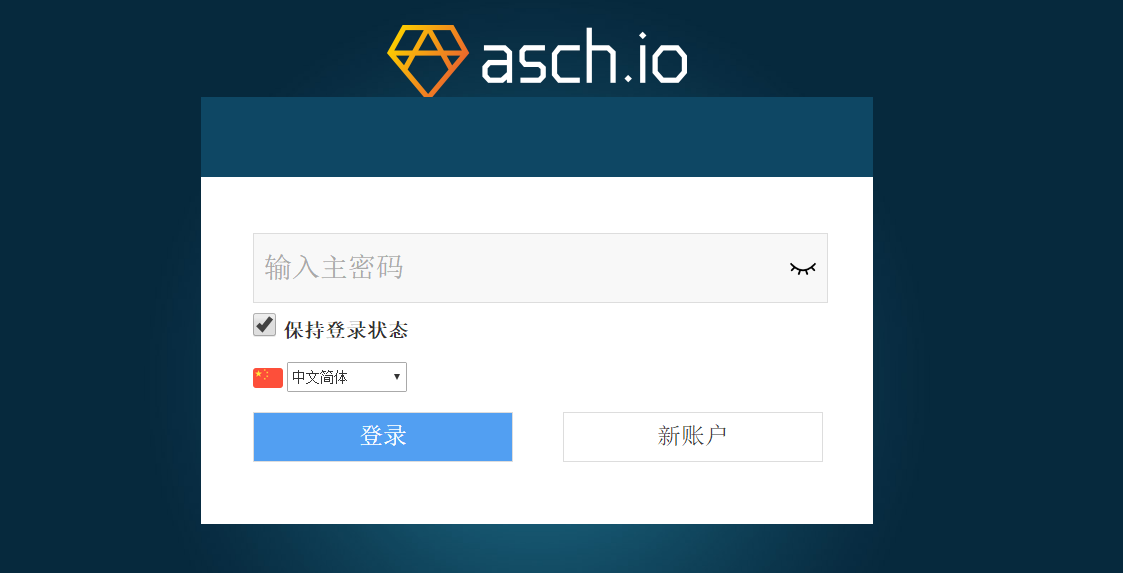
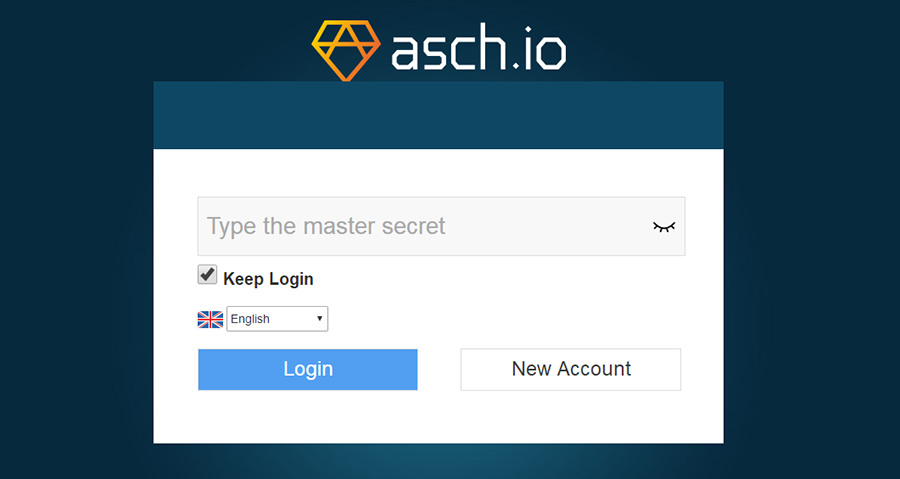
small change

diff --git a/getStarted.html b/getStarted.html
@@ -175,26 +175,26 @@
                 <hr>
                 <p id="getStartedText22">在开始深入了解阿希之前，你需要有一个阿希账号。账号是和阿希主链以及主链上各项服务进行交互的基础。目前阿希有三种钱包，用户可以选择合适的方式进行注册。</p>
                 <p id="getStartedText23">1.地址：https://wallet.asch.io或https://wallet.asch.cn，打开页面，点击“新账户”。</p>
-                <img src="images/web11.png" alt="web wallet img">
+                <img class="web1" src="images/web1.png" alt="web wallet img">
                 <p id="getStartedText24">2.生成的12个英文单词是钱包的主密码。将主密码保存在一个安全的地方，一定不能忘了！然后点击“下一步”。</p>
-                <img src="images/web2.png" alt="web wallet img">
+                <img class="web2" src="images/web2.png" alt="web wallet img">
                 <p id="getStartedText25">3.使用刚刚保存好的主密码登录网页钱包，可以看到余额等基本信息。</p>
-                <img src="images/web3.png" alt="web wallet img">
-                <img src="images/web4.png" alt="web wallet img">
+                <img class="web3" src="images/web3.png" alt="web wallet img">
+                <img class="web4" src="images/web4.png" alt="web wallet img">
             </div>
             <div class="pcWallet">
                 <span id="getStartedText26">PC钱包</span>
                 <hr>
                 <p id="getStartedText27">1.在阿希官网(https://asch.io)下载 PC 钱包，安装到本机。打开应用。</p>
-                <img src="images/pc1.png" alt="web wallet img">
+                <img class="pc1" src="images/pc1.png" alt="web wallet img">
                 <p id="getStartedText28">2.填写完信息后，点击“确定”。使用密码登录钱包界面。</p>
-                <img src="images/pc2.png" alt="web wallet img">
+                <img class="pc2" src="images/pc2.png" alt="web wallet img">
                 <p id="getStartedText29">3.每个钱包最多支持8个账户。</p>
-                <img src="images/pc3.png" alt="web wallet img">
+                <img class="pc3" src="images/pc3.png" alt="web wallet img">
                 <p id="getStartedText30">4.点击头像创建账户。</p>
-                <img src="images/pc4.png" alt="web wallet img">
+                <img class="pc4" src="images/pc4.png" alt="web wallet img">
                 <p id="getStartedText31">5.保存好主密码，就可以开始使用了。</p>
-                <img src="images/pc5.png" alt="web wallet img">
+                <img class="pc5" src="images/pc5.png" alt="web wallet img">
             </div>
             <div class="androidWallet">
                 <span id="getStartedText32">安卓手机钱包</span>
@@ -218,15 +218,15 @@
                 <span id="getStartedText42">网页钱包常用功能</span>
                 <hr>
                 <p id="getStartedText43">1.查询阿希币余额。</p>
-                <img src="images/function1.png" alt="web wallet img">
+                <img class="function1" src="images/function1.png" alt="web wallet img">
                 <p id="getStartedText44">2.点击“资产”页面，查询阿希主链其他资产余额。</p>
-                <img src="images/function2.png" alt="web wallet img">
+                <img class="function2" src="images/function2.png" alt="web wallet img">
                 <p id="getStartedText45">3.查看钱包地址及设置二级密码。</p>
-                <img src="images/function3.png" alt="web wallet img">
+                <img class="function3" src="images/function3.png" alt="web wallet img">
                 <p id="getStartedText46">4.投票。</p>
-                <img src="images/function4.png" alt="web wallet img">
+                <img class="function4" src="images/function4.png" alt="web wallet img">
                 <p id="getStartedText47">5.转账。</p>
-                <img src="images/function5.png" alt="web wallet img">
+                <img class="function5" src="images/function5.png" alt="web wallet img">
             </div>
             <div class="toFiduciary">
                 <span id="getStartedText48">如何成为受托人</span>

diff --git a/js/dappSwitchLanguage.js b/js/dappSwitchLanguage.js
@@ -83,6 +83,21 @@ $(function () {
     $(".switchLanguageBtn .btnContainer .btn2 .btnFlag2 img").attr("src", "images/china.png");
     $(".switchLanguageBtn .btnContainer .btn1  .btnText1").html("English");
     $(".switchLanguageBtn .btnContainer .btn2  .btnText2").html("中文简体");
+
+    $(".getContainer .getMain .mainRight .web1").attr("src", "images/web11.png");
+    $(".getContainer .getMain .mainRight .web2").attr("src", "images/web21.png");
+    $(".getContainer .getMain .mainRight .web3").attr("src", "images/web31.png");
+    $(".getContainer .getMain .mainRight .web4").attr("src", "images/web41.png");
+    $(".getContainer .getMain .mainRight .pc1").attr("src", "images/pc11.png");
+    $(".getContainer .getMain .mainRight .pc2").attr("src", "images/pc21.png");
+    $(".getContainer .getMain .mainRight .pc3").attr("src", "images/pc31.png");
+    $(".getContainer .getMain .mainRight .pc4").attr("src", "images/pc41.png");
+    $(".getContainer .getMain .mainRight .pc5").attr("src", "images/pc51.png");
+    $(".getContainer .getMain .mainRight .function1").attr("src", "images/function11.png");
+    $(".getContainer .getMain .mainRight .function2").attr("src", "images/function21.png");
+    $(".getContainer .getMain .mainRight .function3").attr("src", "images/function31.png");
+    $(".getContainer .getMain .mainRight .function4").attr("src", "images/function41.png");
+    $(".getContainer .getMain .mainRight .function5").attr("src", "images/function51.png");
     if(screen.width < 1910){
       $("#dreamWorldLinks").css("bottom","15px");
     }
@@ -94,6 +109,21 @@ $(function () {
     $(".switchLanguageBtn .btnContainer .btn2 .btnFlag2 img").attr("src", "images/uk.png");
     $(".switchLanguageBtn .btnContainer .btn1  .btnText1").html("中文简体");
     $(".switchLanguageBtn .btnContainer .btn2  .btnText2").html("English");
+
+    $(".getContainer .getMain .mainRight .web1").attr("src", "images/web1.png");
+    $(".getContainer .getMain .mainRight .web2").attr("src", "images/web2.png");
+    $(".getContainer .getMain .mainRight .web3").attr("src", "images/web3.png");
+    $(".getContainer .getMain .mainRight .web4").attr("src", "images/web4.png");
+    $(".getContainer .getMain .mainRight .pc1").attr("src", "images/pc1.png");
+    $(".getContainer .getMain .mainRight .pc2").attr("src", "images/pc2.png");
+    $(".getContainer .getMain .mainRight .pc3").attr("src", "images/pc3.png");
+    $(".getContainer .getMain .mainRight .pc4").attr("src", "images/pc4.png");
+    $(".getContainer .getMain .mainRight .pc5").attr("src", "images/pc5.png");
+    $(".getContainer .getMain .mainRight .function1").attr("src", "images/function1.png");
+    $(".getContainer .getMain .mainRight .function2").attr("src", "images/function2.png");
+    $(".getContainer .getMain .mainRight .function3").attr("src", "images/function3.png");
+    $(".getContainer .getMain .mainRight .function4").attr("src", "images/function4.png");
+    $(".getContainer .getMain .mainRight .function5").attr("src", "images/function5.png");
     if(screen.width < 1910){
       $("#dreamWorldLinks").css("bottom","15px");
     }

diff --git a/css/getStarted.css b/css/getStarted.css
@@ -210,6 +210,10 @@ nav {
     border: 1px solid #ccc;
 }
 
+.getContainer .getMain .mainRight .pcWallet img{
+    max-width: 800px;
+}
+
 .getContainer .getMain .mainRight a {
     display: block;
     margin: 10px 0;
